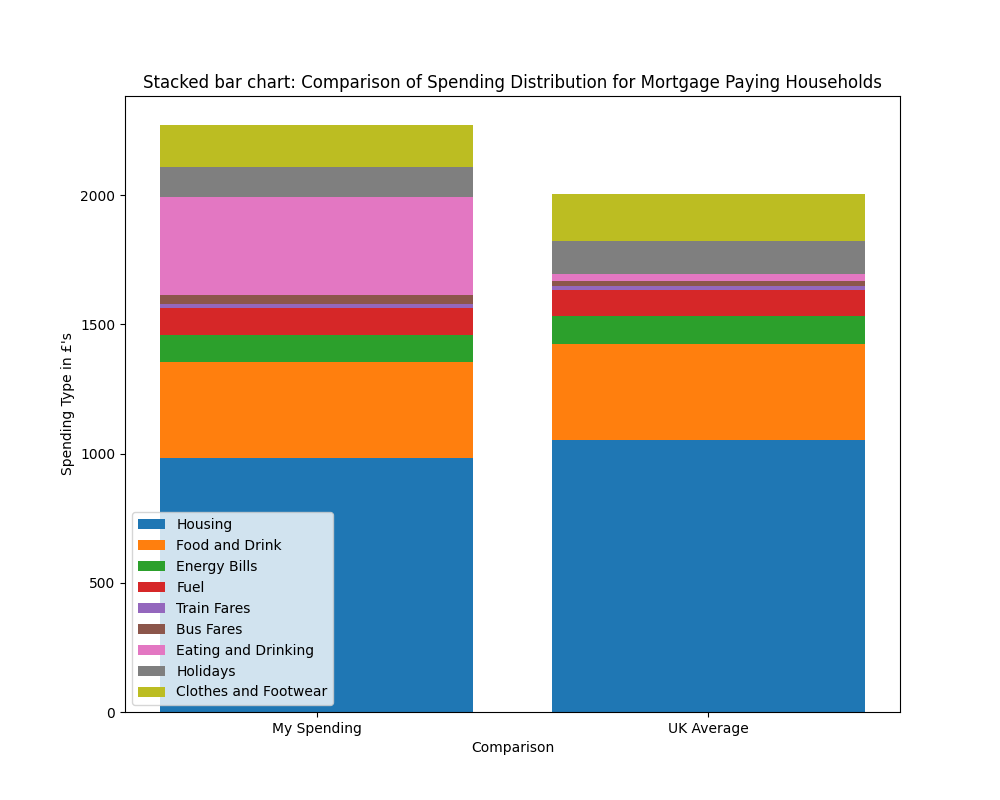
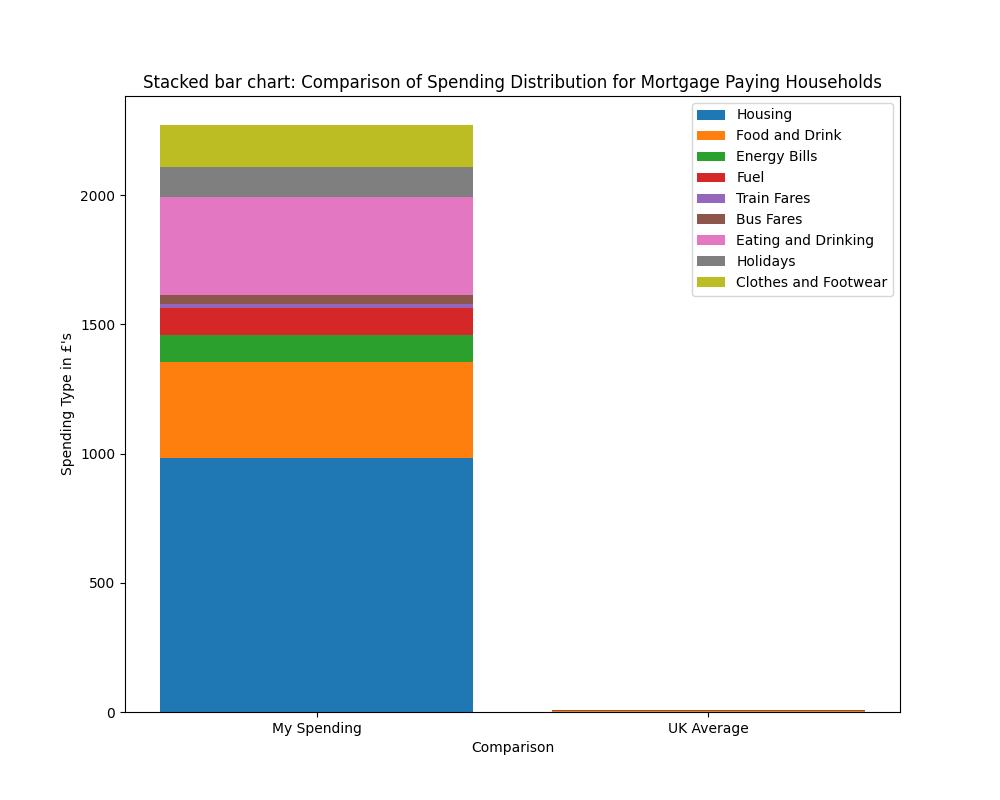
fix legend

Changed region(s): [[0.527, 0.125, 0.899, 0.9062], [0.124, 0.625, 0.341, 0.9062]]

diff --git a/application/templates/dashboard.html b/application/templates/dashboard.html
@@ -26,7 +26,7 @@
       <div class="col-sm-6">
         <!-- Code to insert the legend, I need to create an image for that-->
         <h4>Key:</h2>
-        <img src="{{ url_for('static', filename='images/legend.png') }}" height='100' width='75' alt="Legend">
+        <img src="{{ url_for('static', filename='images/legend.jpg') }}" height='100' width='100' alt="Legend">
       </div>
     </div>
   </div>
@@ -43,7 +43,7 @@
       <div class="col-sm-6">
         <!-- Code for the stacked bar chart - to be linked to real data when the database is complete-->
         <h4>Stacked Bar Chart showing your spending compared to average UK household spending</h2>
-        <img src="{{ url_for('static', filename='images/barstack.png') }}" height='300' width='450' alt="stacked bar chart">
+        <img src="{{ url_for('static', filename='images/barstack.png') }}" height='400' width='450' alt="stacked bar chart">
       </div>
     </div>
   </div>
